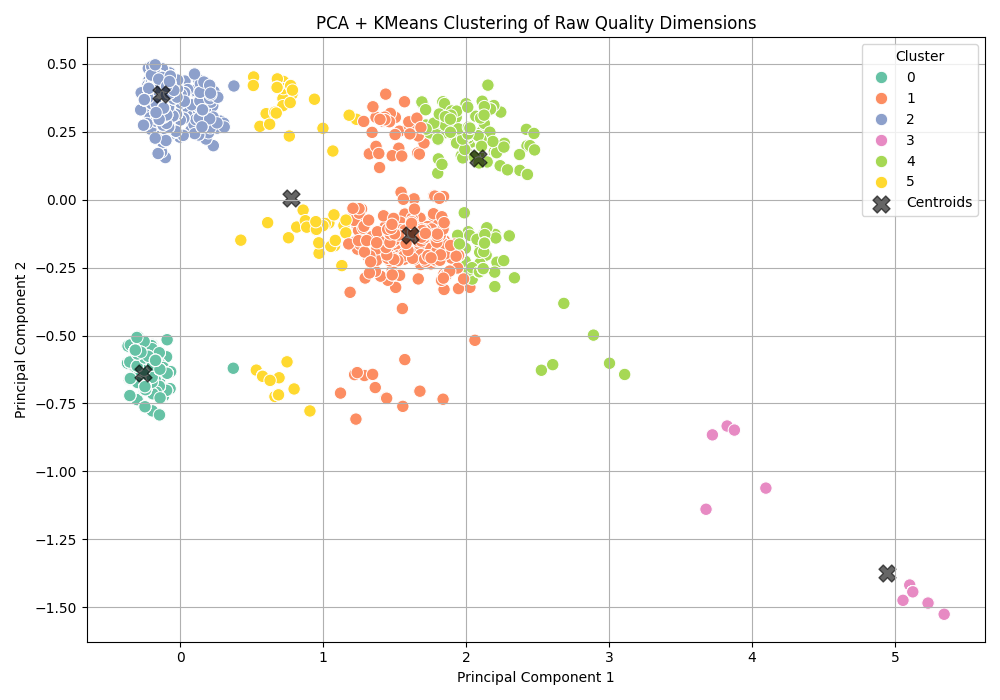
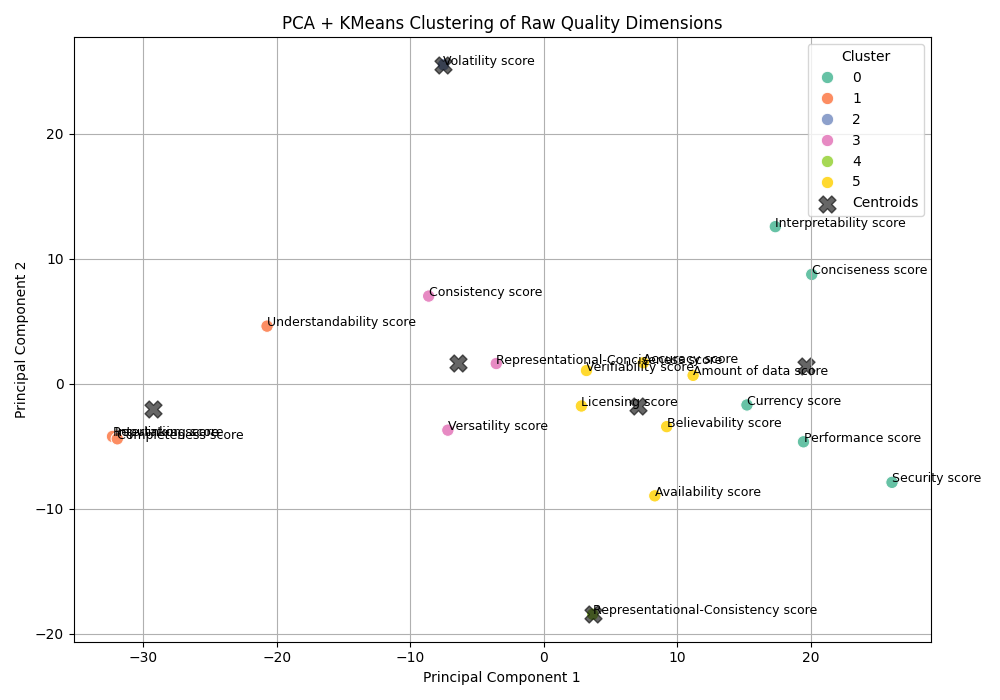
updated pca kmeans calculation and updatet charts

diff --git a/src/pca_and_clustering.py b/src/pca_and_clustering.py
@@ -2,10 +2,14 @@ import pandas as pd
 import numpy as np
 from sklearn.decomposition import PCA
 from sklearn.cluster import KMeans
+import matplotlib
+matplotlib.use('Agg')
 import matplotlib.pyplot as plt
 import seaborn as sns
 import glob
+from sklearn.preprocessing import StandardScaler
 from variables import QUALITY_DIMENSIONS
+import utils
 
 
 def calculate_clustering_on_raw_quality_dimensions(selected_columns, n_clusters=7):
@@ -16,29 +20,50 @@ def calculate_clustering_on_raw_quality_dimensions(selected_columns, n_clusters=
     csv_files = glob.glob('../data/quality_analysis_results/*.csv')
     data_frames = []
 
+    available_ids = utils.get_always_sparql_up(['2024-01-07','2024-04-07','2024-08-04','2024-12-01','2025-04-06'])
     for file in csv_files:
         df = pd.read_csv(file)
 
         valid_cols = [col for col in selected_columns if col in df.columns]
         if len(valid_cols) < len(selected_columns):
             continue
-
+        
+        df = df[df['KG id'].isin(available_ids)]
         df_selected = df[valid_cols].dropna()
-        data_frames.append(df_selected)
 
+        # Ensure numeric before transpose
+        df_selected = df_selected.apply(pd.to_numeric, errors='coerce')
+
+        # Drop rows with non-numeric values
+        if df_selected.isnull().values.any():
+            df_selected = df_selected.dropna()
+
+        # Transpose (rows = quality dimensions)
+        df_selected = df_selected.T
+        df_selected.index = valid_cols
+
+        data_frames.append(df_selected)
+    
     if not data_frames:
         print("No valid data found.")
         return
 
     # Concatenate all data
-    full_data = pd.concat(data_frames, ignore_index=True).dropna()
+    full_data = pd.concat(data_frames, axis=1).dropna()
+
+    # Standardize
+    scaler = StandardScaler()
+    quality_scaled_T = scaler.fit_transform(full_data)
 
     # PCA
     pca = PCA(n_components=2)
-    X_pca = pca.fit_transform(full_data.values)
+    X_pca = pca.fit_transform(quality_scaled_T)
 
     # Explained variance
     print("Explained variance ratio:", pca.explained_variance_ratio_)
+
+    # Labels = quality dimension names
+    quality_dimension_labels = full_data.index.tolist()
 
     # PCA-only plot
     plt.figure(figsize=(10, 7))
@@ -60,8 +85,12 @@ def calculate_clustering_on_raw_quality_dimensions(selected_columns, n_clusters=
     sns.scatterplot(x=X_pca[:, 0], y=X_pca[:, 1], hue=labels, palette='Set2', s=80)
     
     # Optional: Plot centroids
-    centers = kmeans.cluster_centers_
-    plt.scatter(centers[:, 0], centers[:, 1], c='black', s=150, alpha=0.6, marker='X', label='Centroids')
+    plt.figure(figsize=(10, 7))
+    sns.scatterplot(x=X_pca[:, 0], y=X_pca[:, 1], hue=labels, palette='Set2', s=80)
+    for i, label in enumerate(quality_dimension_labels):
+        plt.annotate(label, (X_pca[i, 0], X_pca[i, 1]), fontsize=9)
+    plt.scatter(kmeans.cluster_centers_[:, 0], kmeans.cluster_centers_[:, 1],
+                c='black', s=150, alpha=0.6, marker='X', label='Centroids')
 
     plt.title("PCA + KMeans Clustering of Raw Quality Dimensions")
     plt.xlabel("Principal Component 1")
@@ -70,7 +99,6 @@ def calculate_clustering_on_raw_quality_dimensions(selected_columns, n_clusters=
     plt.grid(True)
     plt.tight_layout()
     plt.savefig("../data/charts/pca_kmeans/raw_quality_data_pca_kmeans.png")
-    plt.show()
 
 def calculate_clustering_on_pairwise_correlation(n_clusters=7):
     """
@@ -141,7 +169,5 @@ def calculate_clustering_on_pairwise_correlation(n_clusters=7):
     plt.grid(True)
     plt.tight_layout()
     plt.savefig('../data/charts/pca_kmeans/pairwise_correlation_pca_kmeans.png')
-    plt.show()
 
 calculate_clustering_on_raw_quality_dimensions(QUALITY_DIMENSIONS,n_clusters=6)
-calculate_clustering_on_pairwise_correlation(n_clusters=6)
